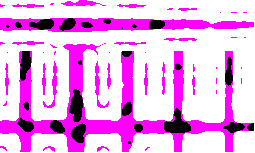
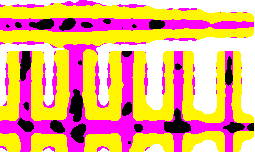
ud

diff --git a/src/com/braids/burncoffeeman/client/ScaledGfxHelper.java b/src/com/braids/burncoffeeman/client/ScaledGfxHelper.java
@@ -2,7 +2,11 @@ package com.braids.burncoffeeman.client;
 
 import java.awt.Color;
 import java.awt.Image;
+import java.awt.Toolkit;
 import java.awt.image.BufferedImage;
+import java.awt.image.FilteredImageSource;
+import java.awt.image.ImageProducer;
+import java.awt.image.RGBImageFilter;
 import java.util.ArrayList;
 import java.util.HashMap;
 import java.util.List;
@@ -18,10 +22,15 @@ import com.braids.burncoffeeman.common.Wall;
 
 public class ScaledGfxHelper {
 
-	private static int                                actualSize = -1;
-	private static HashMap<PlayerSlot, BufferedImage> mapPlayer  = new HashMap<PlayerSlot, BufferedImage>();
-	private static HashMap<Wall, Image>               mapWall    = new HashMap<Wall, Image>();
-	private static HashMap<Fire, List<Image>>         mapFire    = new HashMap<Fire, List<Image>>();
+	private static int                                actualSize    = -1;
+	private static HashMap<PlayerSlot, BufferedImage> mapPlayer     = new HashMap<PlayerSlot, BufferedImage>();
+	private static HashMap<Wall, Image>               mapWall       = new HashMap<Wall, Image>();
+	private static HashMap<FireSlot, List<Image>>     mapFire       = new HashMap<FireSlot, List<Image>>();
+
+	private static ColorFilter                        colorFilter   = new ColorFilter();
+
+	private static final Color                        fireKeyColor1 = new Color(255, 0, 255);
+	private static final Color                        fireKeyColor2 = new Color(0, 0, 0);
 
 	private static void clearCache() {
 		mapPlayer.clear();
@@ -47,24 +56,56 @@ public class ScaledGfxHelper {
 		return result;
 	}
 
-	public static Image getFire(int size, Fire fire, int phase) {
+	public static Image getFire(int size, Fire fire, Color ownColor1, Color ownColor2, int phase) {
 		if (actualSize != size) {
 			actualSize = size;
 			clearCache();
 		}
 
-		List<Image> result = mapFire.get(fire);
+		FireSlot slot = new FireSlot();
+		slot.fire = fire;
+		slot.ownColor1 = ownColor1;
+		slot.ownColor2 = ownColor2;
+
+		List<Image> result = mapFire.get(slot);
 
 		if (result == null) {
 			GraphicsTemplateManager gtm = GraphicsTemplateManager.getInstance();
+
+			colorFilter.fromColor1 = fireKeyColor1.getRGB();
+			colorFilter.toColor1 = ownColor1.getRGB();
+
+			colorFilter.fromColor2 = fireKeyColor2.getRGB();
+			colorFilter.toColor2 = ownColor2.getRGB();
+
 			result = new ArrayList<Image>();
 			for (BufferedImage origFire : gtm.getFire(fire)) {
-				result.add(origFire.getScaledInstance(size + 1, size + 1, Image.SCALE_REPLICATE));
+				ImageProducer ip = new FilteredImageSource(origFire.getSource(), colorFilter);
+				Image coloredImage = Toolkit.getDefaultToolkit().createImage(ip);
+				result.add(coloredImage.getScaledInstance(size + 1, size + 1, Image.SCALE_REPLICATE));
 			}
-			mapFire.put(fire, result);
+			mapFire.put(slot, result);
 		}
 
 		return result.get(phase);
+	}
+
+	private static class ColorFilter extends RGBImageFilter {
+
+		public int fromColor1;
+		public int toColor1;
+		public int fromColor2;
+		public int toColor2;
+
+		public int filterRGB(int x, int y, int rgb) {
+			if (rgb == fromColor1) {
+				return toColor1;
+			} else if (rgb == fromColor2) {
+				return toColor2;
+			}
+			return rgb;
+		}
+
 	}
 
 	public static BufferedImage getPlayer(int size, Color ownColor1, Color ownColor2, String groupName, Activity activityType, Direction direction,
@@ -118,5 +159,21 @@ public class ScaledGfxHelper {
 			return ownColor1.hashCode() ^ ownColor2.hashCode() ^ groupName.hashCode() ^ activityType.hashCode() ^ direction.hashCode() ^ (phaseNumber + 1);
 		}
 
+	}
+
+	private static class FireSlot {
+
+		Color ownColor1;
+		Color ownColor2;
+		Fire  fire;
+
+		public boolean equals(Object obj) {
+			FireSlot other = (FireSlot) obj;
+			return ownColor1.equals(other.ownColor1) && ownColor2.equals(other.ownColor2) && fire.equals(other.fire);
+		}
+
+		public int hashCode() {
+			return ownColor1.hashCode() ^ ownColor2.hashCode() ^ fire.hashCode();
+		}
 	}
 }

diff --git a/src/com/braids/burncoffeeman/client/Displayer.java b/src/com/braids/burncoffeeman/client/Displayer.java
@@ -2,11 +2,15 @@ package com.braids.burncoffeeman.client;
 
 import java.awt.Color;
 import java.awt.Graphics;
+import java.awt.event.ActionEvent;
+import java.awt.event.ActionListener;
 import java.awt.image.BufferedImage;
 import java.io.IOException;
 import java.util.Collection;
+import java.util.List;
 
 import javax.swing.JPanel;
+import javax.swing.Timer;
 
 import com.braids.burncoffeeman.common.Activity;
 import com.braids.burncoffeeman.common.BombModel;
@@ -16,6 +20,7 @@ import com.braids.burncoffeeman.common.GraphicsTemplateManager;
 import com.braids.burncoffeeman.common.Helper;
 import com.braids.burncoffeeman.common.LevelModel;
 import com.braids.burncoffeeman.common.LevelTileModel;
+import com.braids.burncoffeeman.common.PlayerInfoModel;
 import com.braids.burncoffeeman.common.PlayerModel;
 
 public class Displayer extends JPanel {
@@ -24,9 +29,17 @@ public class Displayer extends JPanel {
 	private Players                 players;
 	private Bombs                   bombs;
 	private GraphicsTemplateManager gtm;
+	private int                     animationCounter;
 
 	public Displayer() {
 		gtm = GraphicsTemplateManager.getInstance();
+
+		new Timer(Constants.MAIN_CYCLE_PERIOD, new ActionListener() {
+
+			public void actionPerformed(ActionEvent e) {
+				repaint();
+			}
+		}).start();
 	}
 
 	public void setLevelModel(LevelModel levelModel) {
@@ -47,6 +60,8 @@ public class Displayer extends JPanel {
 		if (levelModel == null) {
 			return;
 		}
+
+		animationCounter = (animationCounter + 1) & 0xffff;
 
 		g.setColor(Color.BLACK);
 		g.fillRect(0, 0, getWidth(), getHeight());
@@ -79,8 +94,7 @@ public class Displayer extends JPanel {
 			g.fillOval(x, y, componentSize, componentSize);
 		}
 
-		Collection<PlayerModel> lstPlayers = players.getPlayerModels();
-
+		List<PlayerModel> lstPlayers = players.getPlayerModels();
 		for (PlayerModel playerModel : lstPlayers) {
 			int x = (int) ((playerModel.getX() - Constants.COMPONENT_SIZE_IN_VIRTUAL * 1.5 / 2) / divider);
 			int y = (int) ((playerModel.getY() - Constants.COMPONENT_SIZE_IN_VIRTUAL) / divider);
@@ -111,8 +125,18 @@ public class Displayer extends JPanel {
 
 		g.drawImage(ScaledGfxHelper.getWall(componentSize, tile.getWall()), (x * componentSize), (y * componentSize), null);
 		if (tile.hasFire()) {
-			// TODO fire-anim-phase
-			g.drawImage(ScaledGfxHelper.getFire(componentSize, tile.getFire(), 3), (x * componentSize), (y * componentSize), null);
+			Color color1;
+			Color color2;
+			if (tile.getFireOwnerId() == Constants.NOONES_BOMB) {
+				color1 = Color.black;
+				color2 = Color.black;
+			} else {
+				PlayerInfoModel playerInfo = players.getPlayerInfoModel(tile.getFireOwnerId());
+				color1 = playerInfo.getColor1();
+				color2 = playerInfo.getColor2();
+			}
+			g.drawImage(ScaledGfxHelper.getFire(componentSize, tile.getFire(), color1, color2,
+			        ((animationCounter * 8 / Constants.MAIN_CYCLE_PER_SEC & 255) + x + y) % 5), (x * componentSize), (y * componentSize), null);
 		}
 	}
 

diff --git a/src/com/braids/burncoffeeman/common/PlayerInfoModel.java b/src/com/braids/burncoffeeman/common/PlayerInfoModel.java
@@ -5,6 +5,7 @@ import java.nio.ByteBuffer;
 
 public class PlayerInfoModel implements CoderDecoder {
 
+	int    playerId;
 	String name;
 	Color  color1;
 	Color  color2;
@@ -19,7 +20,7 @@ public class PlayerInfoModel implements CoderDecoder {
 		byte[] gfxLegsGroupAsBytes = gfxLegsGroup.getBytes(Constants.UTF_8);
 
 		ByteBuffer bb = ByteBuffer.allocate(1 + 3 + 3 + 1 + nameAsBytes.length + 1 + gfxHeadGroupAsBytes.length + 1 + gfxBodyGroupAsBytes.length + 1
-		        + gfxLegsGroupAsBytes.length);
+		        + gfxLegsGroupAsBytes.length + 1);
 
 		bb.put((byte) PacketMessageType.PLAYER_INFO.ordinal());
 
@@ -41,6 +42,8 @@ public class PlayerInfoModel implements CoderDecoder {
 
 		bb.put((byte) gfxLegsGroupAsBytes.length);
 		bb.put(gfxLegsGroupAsBytes);
+
+		bb.put((byte) playerId);
 
 		return bb.array();
 	}
@@ -68,6 +71,10 @@ public class PlayerInfoModel implements CoderDecoder {
 		int gfxLegsGroupAsBytesSize = Helper.byteToInt(bytes[offset]);
 		gfxLegsGroup = new String(bytes, offset + 1, gfxLegsGroupAsBytesSize, Constants.UTF_8);
 		offset += 1 + gfxLegsGroupAsBytesSize;
+
+		playerId = bytes[offset];
+
+		offset++;
 
 		return offset - initialOffset;
 	}
@@ -118,6 +125,14 @@ public class PlayerInfoModel implements CoderDecoder {
 
 	public void setGfxLegsGroup(String gfxLegsGroup) {
 		this.gfxLegsGroup = gfxLegsGroup;
+	}
+
+	public int getPlayerId() {
+		return this.playerId;
+	}
+
+	public void setPlayerId(int playerId) {
+		this.playerId = playerId;
 	}
 
 }

diff --git a/src/com/braids/burncoffeeman/client/CommunicationClient.java b/src/com/braids/burncoffeeman/client/CommunicationClient.java
@@ -13,6 +13,7 @@ import com.braids.burncoffeeman.common.GfxByteModel;
 import com.braids.burncoffeeman.common.Helper;
 import com.braids.burncoffeeman.common.LevelTileModel;
 import com.braids.burncoffeeman.common.PacketMessageType;
+import com.braids.burncoffeeman.common.PlayerInfoModel;
 import com.braids.burncoffeeman.common.PlayerModel;
 
 public class CommunicationClient {
@@ -144,13 +145,12 @@ public class CommunicationClient {
 								offset += processAnimTileModel(packetBuffer, offset);
 								break;
 							case PLAYER_INFO:
-								// TODO
+								offset += processPlayerInfo(packetBuffer, offset);
 								break;
 							default:
 								System.out.println("CommunicationClient invalid input: " + messageType);
 						}
 					}
-					mainClient.refreshDisplay();
 				}
 
 			} catch (IOException ex) {
@@ -163,6 +163,15 @@ public class CommunicationClient {
 			int resultOffsetIncrement = data.decode(bytes, offset);
 
 			mainClient.getLevelModel().setTile(data);
+
+			return resultOffsetIncrement;
+		}
+
+		private int processPlayerInfo(byte[] bytes, int offset) {
+			PlayerInfoModel data = new PlayerInfoModel();
+			int resultOffsetIncrement = data.decode(bytes, offset);
+
+			mainClient.setPlayerInfoModel(data);
 
 			return resultOffsetIncrement;
 		}

diff --git a/src/com/braids/burncoffeeman/client/Players.java b/src/com/braids/burncoffeeman/client/Players.java
@@ -1,23 +1,35 @@
 package com.braids.burncoffeeman.client;
 
-import java.util.Collection;
+import java.util.ArrayList;
 import java.util.HashMap;
+import java.util.List;
 
+import com.braids.burncoffeeman.common.PlayerInfoModel;
 import com.braids.burncoffeeman.common.PlayerModel;
 
 public class Players {
 
-	private HashMap<Integer, PlayerModel> mapPlayerModel;
+	private HashMap<Integer, PlayerModel>     mapPlayerModel;
+	private HashMap<Integer, PlayerInfoModel> mapPlayerInfoModel;
 
 	public Players() {
 		mapPlayerModel = new HashMap<Integer, PlayerModel>();
+		mapPlayerInfoModel = new HashMap<Integer, PlayerInfoModel>();
 	}
 
 	public synchronized void setPlayerModel(PlayerModel data) {
 		mapPlayerModel.put(data.getPlayerId(), data);
 	}
 
-	public synchronized Collection<PlayerModel> getPlayerModels() {
-		return mapPlayerModel.values();
+	public synchronized List<PlayerModel> getPlayerModels() {
+		return new ArrayList<PlayerModel>(mapPlayerModel.values());
+	}
+
+	public synchronized void setPlayerInfoModel(PlayerInfoModel data) {
+		mapPlayerInfoModel.put(data.getPlayerId(), data);
+	}
+
+	public synchronized PlayerInfoModel getPlayerInfoModel(Integer id) {
+		return mapPlayerInfoModel.get(id);
 	}
 }

diff --git a/src/com/braids/burncoffeeman/common/Constants.java b/src/com/braids/burncoffeeman/common/Constants.java
@@ -15,7 +15,9 @@ public class Constants {
 
 	public static final int     MAX_PACKET_SIZE                         = 256 * 1024;
 
-	public static final int     MAIN_CYCLE_PERIOD                       = 40;
+	public static final int     MAIN_CYCLE_PER_SEC                      = 25;
+
+	public static final int     MAIN_CYCLE_PERIOD                       = 1000 / MAIN_CYCLE_PER_SEC;
 
 	public static final Charset UTF_8                                   = Charset.forName("utf-8");
 
@@ -47,4 +49,6 @@ public class Constants {
 	public static final int     BOMB_DETONATION_ITERATIONS              = 60;
 
 	public static final int     FIRE_TIMOUT                             = 20;
+
+	public static final int     NOONES_BOMB                             = 99;
 }

diff --git a/src/com/braids/burncoffeeman/client/MainClient.java b/src/com/braids/burncoffeeman/client/MainClient.java
@@ -120,10 +120,6 @@ public class MainClient {
 		return levelModel;
 	}
 
-	public void refreshDisplay() {
-		displayer.repaint();
-	}
-
 	public void setPlayerModel(PlayerModel data) {
 		players.setPlayerModel(data);
 	}
@@ -142,5 +138,9 @@ public class MainClient {
 
 	public void setFireImage(GfxByteModel data) throws IOException {
 		displayer.setFireImage(data);
+	}
+
+	public void setPlayerInfoModel(PlayerInfoModel data) {
+		players.setPlayerInfoModel(data);
 	}
 }

diff --git a/src/com/braids/burncoffeeman/server/GameManager.java b/src/com/braids/burncoffeeman/server/GameManager.java
@@ -189,7 +189,7 @@ public class GameManager {
 			sendOtherGfx(GfxByteModelType.BOMB, "gfx/tile-bomb.png");
 			sendOtherGfx(GfxByteModelType.BURNING, "gfx/tile-burning.png");
 			sendOtherGfx(GfxByteModelType.FIRE, "gfx/tile-fire.png");
-			// sendOtherGfx(GfxByteModelType.ITEMS, "gfx/tile-items.png");
+			sendOtherGfx(GfxByteModelType.ITEMS, "gfx/tile-items.png");
 			sendOtherGfx(GfxByteModelType.WALL, "gfx/tile-walls1.png");
 		}
 

diff --git a/src/com/braids/burncoffeeman/client/Bombs.java b/src/com/braids/burncoffeeman/client/Bombs.java
@@ -1,5 +1,6 @@
 package com.braids.burncoffeeman.client;
 
+import java.util.ArrayList;
 import java.util.Collection;
 import java.util.HashMap;
 
@@ -23,6 +24,6 @@ public class Bombs {
 	}
 
 	public synchronized Collection<BombModel> getBombModels() {
-		return mapBombModel.values();
+		return new ArrayList<BombModel>(mapBombModel.values());
 	}
 }
